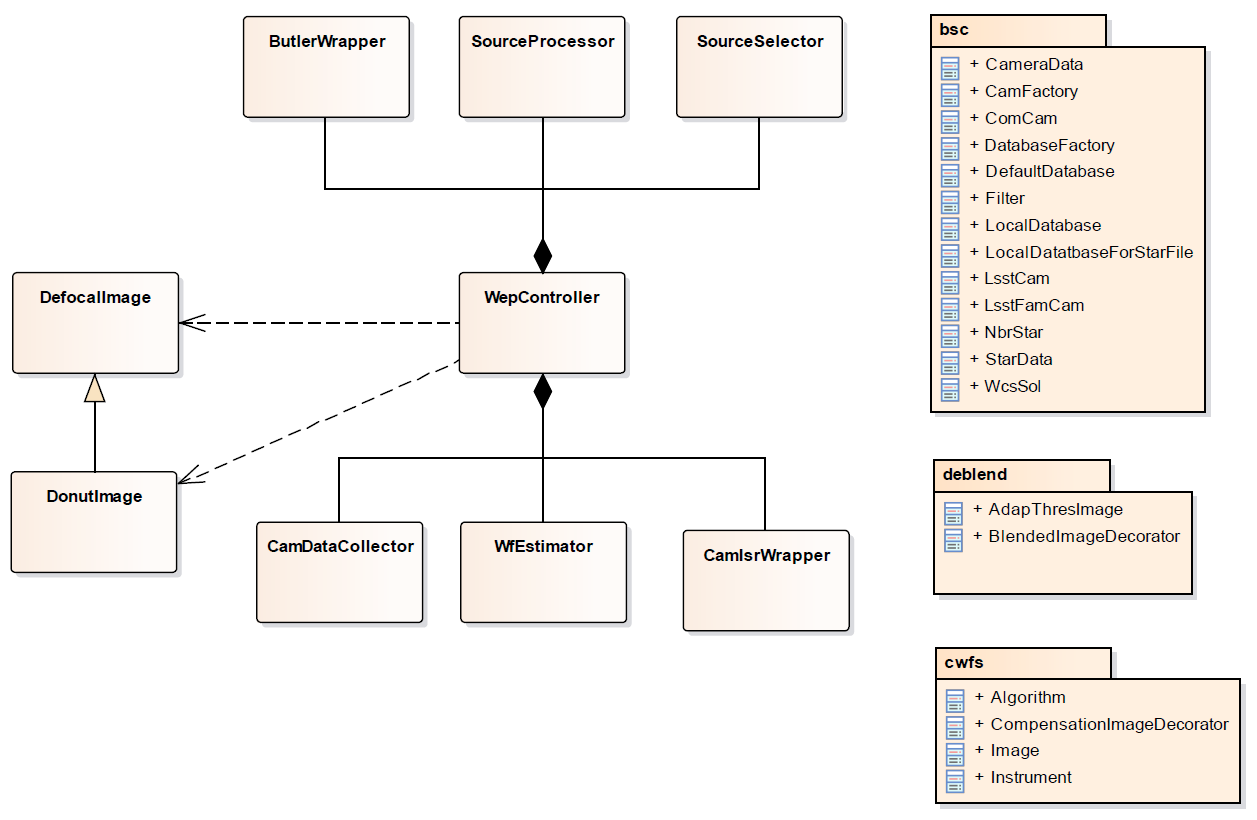
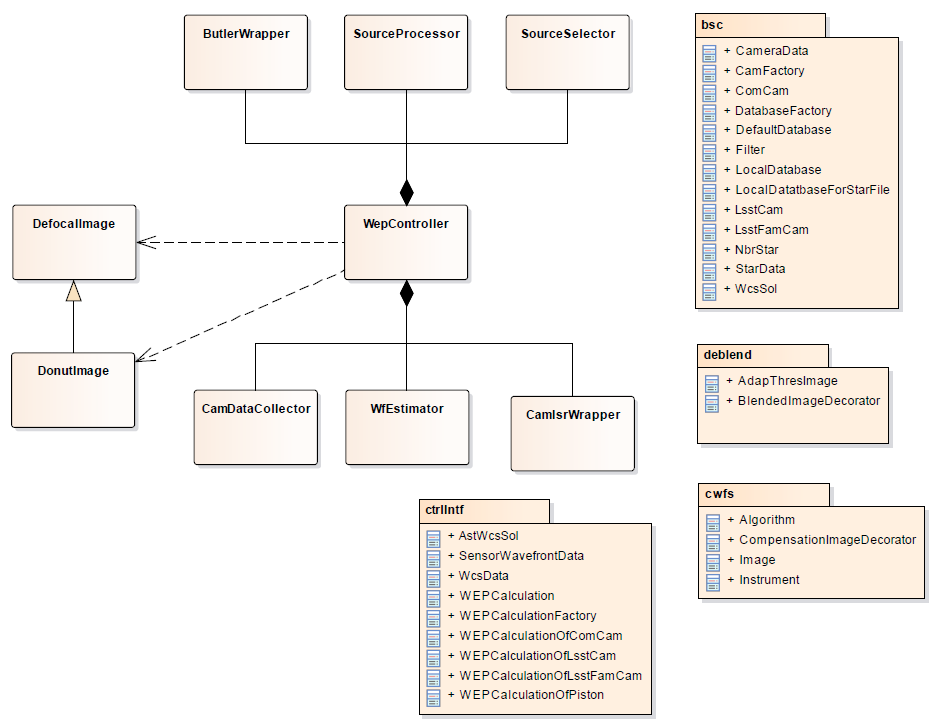
Document the interface classes with the class diagrams.

diff --git a/python/lsst/ts/wep/ctrlIntf/AstWcsSol.py b/python/lsst/ts/wep/ctrlIntf/AstWcsSol.py
@@ -2,6 +2,7 @@ import numpy as np
 
 
 class AstWcsSol(object):
+    """AST world coordinate system (WCS) solution provided by DM team."""
 
     def __init__(self):
         """Construct a Ast WCS Solution class."""

diff --git a/setup.py b/setup.py
@@ -2,7 +2,7 @@ from setuptools import setup
 
 setup(
     name="Wep",
-    version="1.1.1",
+    version="1.2.1",
     author="Te-Wei Tsai",
     author_email="ttsai@lsst.org",
     packages=["lsst.ts.wep"]

diff --git a/README.md b/README.md
@@ -23,10 +23,15 @@
 <br/>
 *Updated to use the scientific pipeline of sims_w_2019_02. Add the referece filter type.*
 <br/>
+<br/>
+*Version 1.2.1*
+<br/>
+*Add the interface to MTAOS in ctrlIntf module.*
+<br/>
 
 *Author: Te-Wei Tsai*
 <br/>
-*Date: 1-23-2019*
+*Date: 2-8-2019*
 
 ## 2. Platform
 
@@ -142,7 +147,7 @@ export PYTHONPATH=$PYTHONPATH:$path_to_ts_tcs_wep/python
 - **Utility**: Utility functions used in WEP.
 - **PlotUtil**: Plot utility functions used in WEP.
 
-*There are three modules in WEP:*
+*There are the following modules in WEP:*
 
 - **Bright Star Catalog (bsc)**: This module queries the bright star catalog and gets the scientific target. The class diagram is [here](./doc/bscClassDiag.png).
     - **CamFactory**: Camera factory to create the concrete camera object.
@@ -171,6 +176,17 @@ export PYTHONPATH=$PYTHONPATH:$path_to_ts_tcs_wep/python
     - **Image**: Image class to have the function to get the donut center.
     - **Instrument**: Instrument class to have the instrument information used in the Algorithm class to solve the TIE.
     - **Tool**: Annular Zernike polynomials related functions.
+
+- **Control Interface (ctrlIntf)**: This module provides the interface classes to the main telescope active optics system (MTAOS). The factory pattern is applied to support the multiple instruments. The class diagram is [here](./doc/ctrlIntfClassDiag.png).
+    - **WEPCalculationFactory**: Factory for creating the correct WEP calculation based off the camera type currently being used.
+    - **WEPCalculation**: Base class for converting the wavefront images into wavefront errors.
+    - **WEPCalculationOfPiston**: The child class of WEPCalculation that gets the defocal images by the camera piston.
+    - **WEPCalculationOfLsstCam**: The concrete child class of WEPCalculation of the LSST camera (corner wavefront sensor).
+    - **WEPCalculationOfComCam**: The concrete child class of WEPCalculationOfPiston of the commionning camera (ComCam).
+    - **WEPCalculationOfLsstFamCam**: The concrete child class of WEPCalculationOfPiston of the LSST full-array mode (FAM) camera.
+    - **SensorWavefrontData**: Sensor wavefront data class that has the information of sensor Id, list of donut, master donut, and wavefront error.
+    - **WcsData**: Contains the world coordinate system (WCS) data of a camera.
+    - **AstWcsSol**: AST world coordinate system (WCS) solution provided by DM team.
 
 ## 12. Example Script
 
